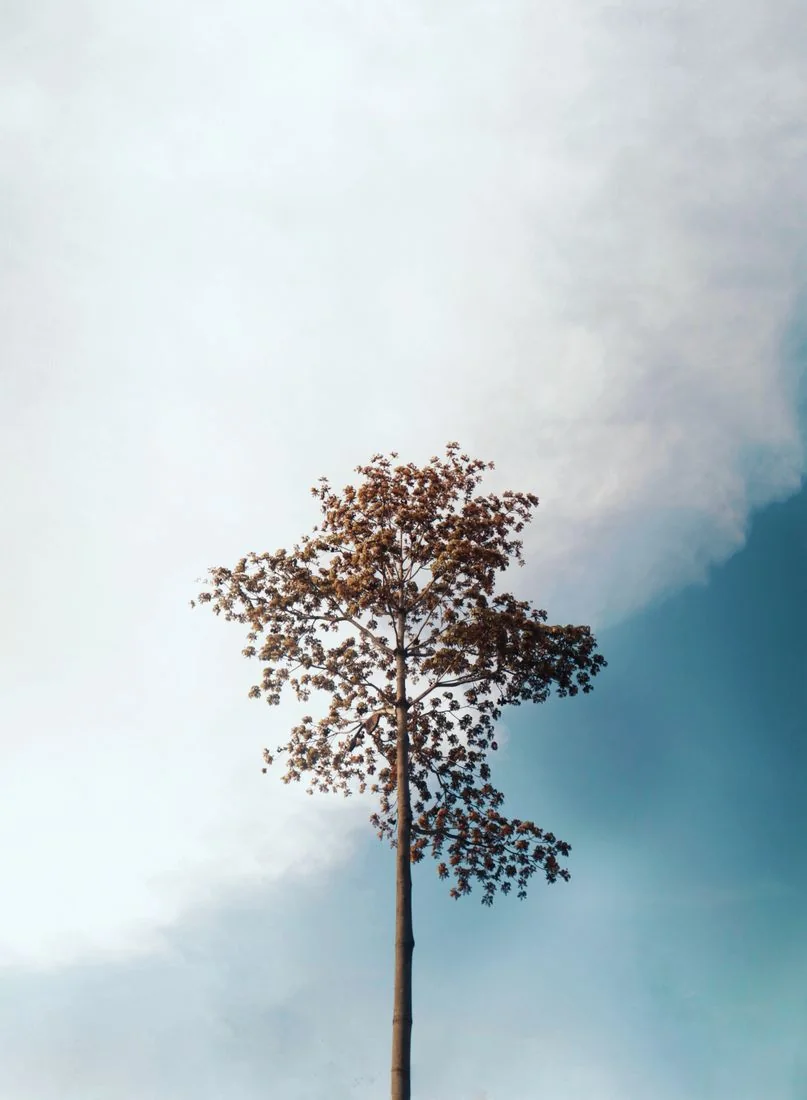
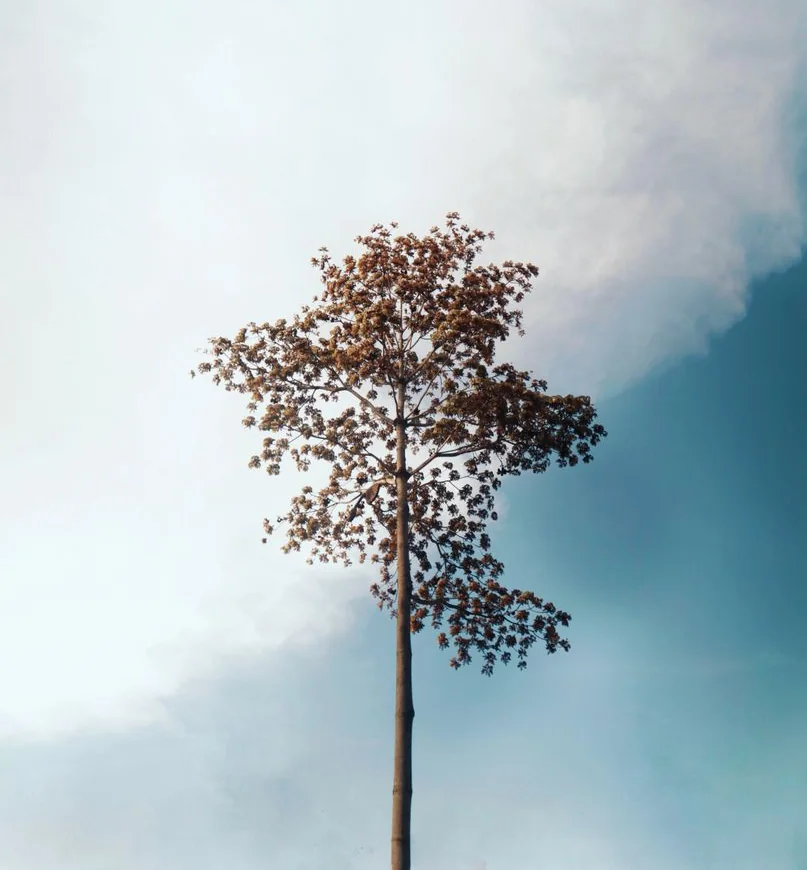
Adjust tree crop and document photo source

Changed region(s): [[0.1859, 0.0, 1.0, 0.8379], [0.0, 0.8379, 0.1859, 0.9], [0.8674, 0.7448, 0.8984, 0.7759]]

diff --git a/README.md b/README.md
@@ -23,3 +23,5 @@ Confirm copy, fee, availability, BACP status and a privacy notice with David bef
 ## Blog and search visibility
 
 The homepage Blog link appears only after David publishes at least one post. The blog has its own page; its title and introduction can be changed in the website text editor. He can write and format posts in `/admin/` under **Blog posts**, save drafts, and change a published post back to draft. Drafts never appear in the public list or sitemap. Posts use server-rendered HTML, unique titles, descriptions, canonical URLs and BlogPosting structured data. The site also serves `/sitemap.xml` and `/robots.txt` from Pages Functions. The homepage describes counselling in Horndean, Hampshire, and support for ADHD, neurodiversity and anxiety. Search visibility still depends on the final domain, indexing and the quality of David's content; submit the eventual domain's sitemap in Google Search Console after launch.
+
+The tree photograph is [Shivansh Sharma's Pexels image](https://www.pexels.com/photo/isolated-tree-against-clear-sky-30420424/), used under the Pexels free-use licence.
